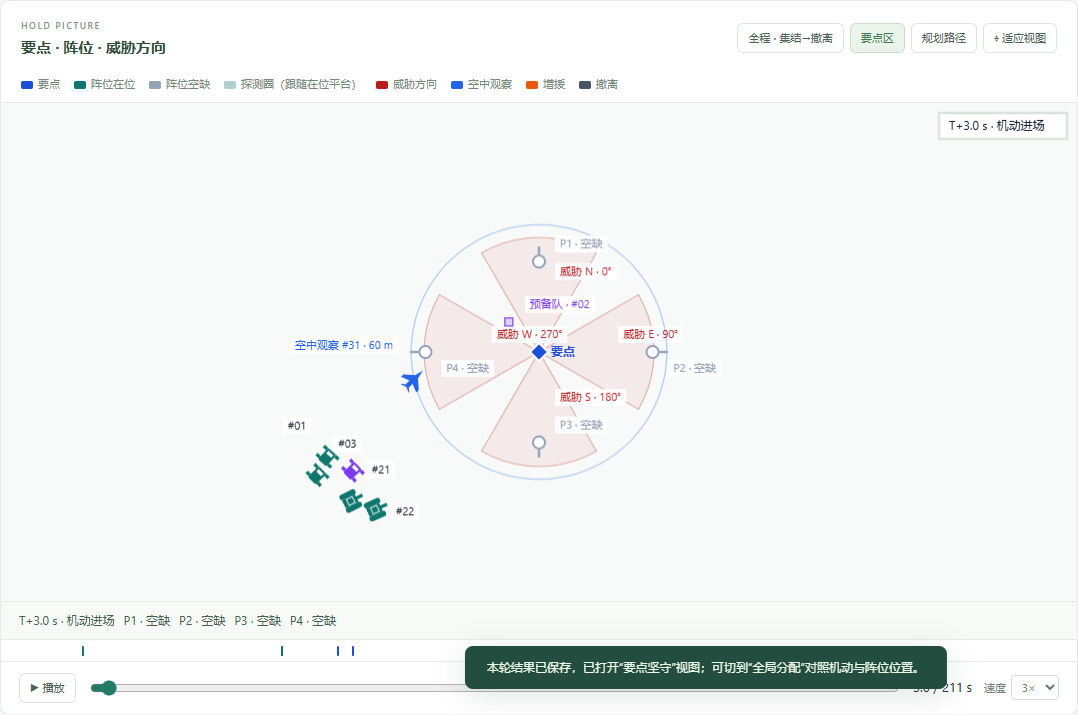
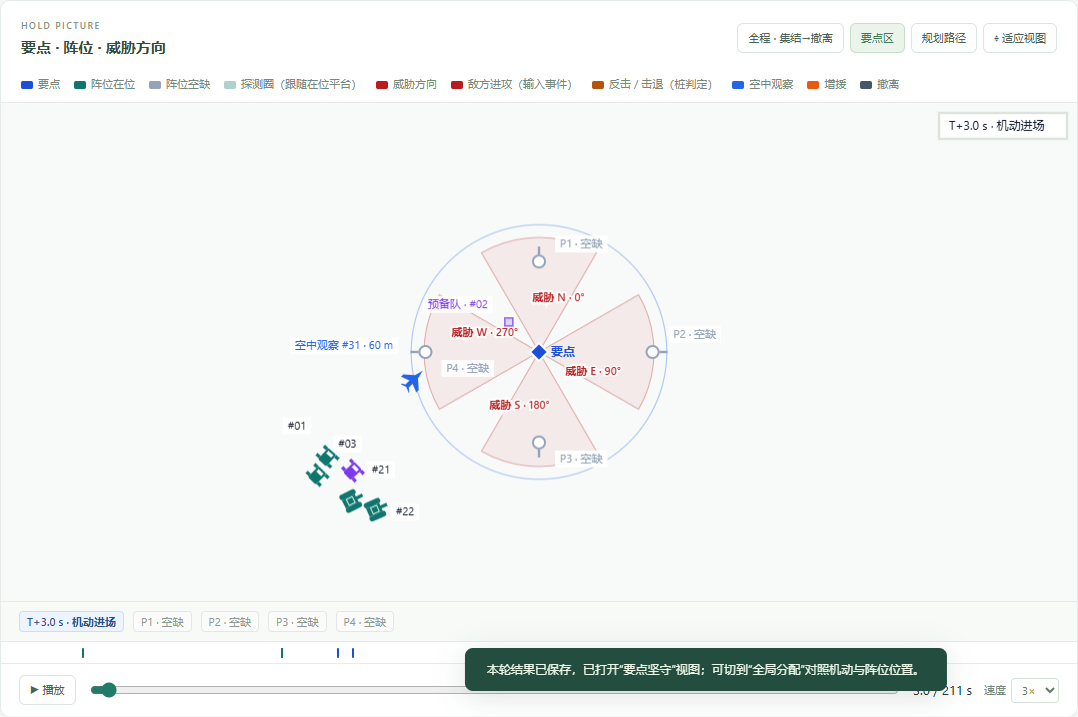
feat(hold): place threat labels inside their own sector and replay attacks on the map
- workbench/hold.js: threat labels are anchored on their own bearing inside the
  wedge (no collision-solver drift), and their boxes are registered so post
  labels avoid them; the canvas also replays what the record already says:
  attack arrow from the reported bearing toward the threatened post, contact
  ring, counter-attack pulse, and a 击退/未解除 (桩判定·未验证) caption; the
  ticker shows the same attack/verdict chips.
- trajectory_v2: expose bearing_deg/range_m in the hold replay so the front end
  can draw the reported direction instead of guessing.
- workbench/styles.css: ticker chip styles (on/out/warn/phase).
- evidence: T+56 s screenshot with the attack and 击退 caption; docs explain
  that the arrow is the input-event direction, not a sensed track, and that
  the verdict is a stub judgement.

diff --git a/planning_middle_demo/workbench/hold.js b/planning_middle_demo/workbench/hold.js
@@ -290,6 +290,8 @@
             '<span><i style="background:' + COLORS.postOff + '"></i>阵位空缺</span>' +
             '<span><i style="background:' + COLORS.post + '55"></i>探测圈（跟随在位平台）</span>' +
             '<span><i style="background:' + COLORS.threat + '"></i>威胁方向</span>' +
+            '<span><i style="background:' + COLORS.threat + '"></i>敌方进攻（输入事件）</span>' +
+            '<span><i style="background:' + COLORS.effect + '"></i>反击 / 击退（桩判定）</span>' +
             '<span><i style="background:' + COLORS.air + '"></i>空中观察</span>' +
             '<span><i style="background:' + COLORS.reinforce + '"></i>增援</span>' +
             '<span><i style="background:' + COLORS.withdraw + '"></i>撤离</span>' +
@@ -449,7 +451,23 @@
       const pid = occupantAt(p.id, C.t);
       return chip(p.id + (pid ? ' · ' + shortPid(pid) : ' · 空缺'), pid ? 'on' : 'out');
     }).join('');
-    box.innerHTML = chip('T+' + num(C.t, 1) + ' s · ' + phase, 'phase') + manned;
+    // 进攻/处置事件在状态条上也给一眼：地图上同时有箭头与脉冲。
+    const events = C.data.events || [];
+    const attack = events.filter((e) => e.kind === 'enemy_attack')
+      .filter((e) => C.t >= (e.t || 0) && C.t <= (e.t || 0) + 8).pop();
+    let fight = '';
+    if (attack) {
+      fight += chip('敌方进攻 ' + (attack.direction || '') + ' · ' +
+        (attack.attack_kind === 'assault' ? '突击' : '试探'), 'warn');
+    }
+    const recent = events.filter(
+      (e) => ['attack_repelled', 'attack_unresolved'].includes(e.kind)
+        && C.t >= (e.t || 0) && C.t <= (e.t || 0) + 6).pop();
+    if (recent) {
+      fight += chip((recent.kind === 'attack_repelled' ? '击退' : '未解除') +
+        '（桩判定·未验证）', recent.kind === 'attack_repelled' ? 'on' : 'warn');
+    }
+    box.innerHTML = chip('T+' + num(C.t, 1) + ' s · ' + phase, 'phase') + fight + manned;
   }
 
   // ---------------------------------------------------------------- 画布
@@ -534,7 +552,8 @@
     };
 
     // 威胁扇区（后端算好的顶点）：淡填充 + 细实线，不用虚线。
-    // 标注放在扇区外缘中点，不堆在要点上——两个方向的文字会在圆心挤成一团。
+    // 标签按"本扇区方位角"直接定在扇区内 0.55 半径处，**不走避让算法**：
+    // 避让会把它推到别的扇区甚至要点上，"威胁 N"标到西边就完全讲错了。
     for (const sector of (st.threat_sectors || [])) {
       const poly = (sector.polygon || []).map(P);
       if (poly.length < 3) continue;
@@ -546,17 +565,30 @@
       ctx.strokeStyle = 'rgba(185,28,28,0.32)';
       ctx.lineWidth = 1.1;
       ctx.stroke();
-      const edge = (sector.polygon || [])[Math.max(1,
-        Math.floor((sector.polygon || []).length / 2))];
-      if (edge) {
-        // 标签放在扇区内部（0.78 半径处）：边缘一圈留给阵位点，文字不压标记。
-        const q = P(edge);
-        const kp0 = P(st.key_point);
-        placeLabel('威胁 ' + (sector.id || '') + ' · ' +
-          num(sector.bearing_deg, 0) + '°',
-          kp0[0] + (q[0] - kp0[0]) * 0.55,
-          kp0[1] + (q[1] - kp0[1]) * 0.55, COLORS.threat);
-      }
+      // 标签放在本扇区内、沿方位角偏 1/3 扇宽的位置（贴着自己扇区的一侧），
+      // 并把它的矩形登记进避让表：后面的阵位标签会让开它。
+      const bearing = (Number(sector.bearing_deg) || 0) * Math.PI / 180;
+      const sectorWidth = Number(sector.width_deg) || 60;
+      const offsetRad = bearing + sectorWidth * 0.33 * Math.PI / 180;
+      const radius = (Number(st.sensor_radius_m) || 40) * 0.45;
+      const labelPoint = [
+        st.key_point[0] + Math.sin(offsetRad) * radius,
+        st.key_point[1] + Math.cos(offsetRad) * radius];
+      const q = P(labelPoint);
+      const text = '威胁 ' + (sector.id || '') + ' · ' +
+        num(sector.bearing_deg, 0) + '°';
+      ctx.font = '600 11px "Segoe UI","Microsoft YaHei"';
+      const textW = ctx.measureText(text).width + 8;
+      placed.push({ x: q[0] - textW / 2, y: q[1] - 9, w: textW, h: 18 });
+      ctx.textAlign = 'center';
+      ctx.textBaseline = 'middle';
+      ctx.lineWidth = 3;
+      ctx.strokeStyle = 'rgba(255,255,255,0.92)';
+      ctx.strokeText(text, q[0], q[1]);
+      ctx.fillStyle = COLORS.threat;
+      ctx.fillText(text, q[0], q[1]);
+      ctx.textAlign = 'left';
+      ctx.textBaseline = 'alphabetic';
     }
 
     // 撤离路线（只有开了"规划路径"才画，默认干净）
@@ -744,6 +776,109 @@
       // 预备队/支援/中继的身份已经由站位标签给出，再标一遍只会糊成一团。
       const onOwnPost = kind === 'post' && occupantAt(roles[pid].split(':')[1], t) === pid;
       if (!onOwnPost && kind === 'post') placeLabel(shortPid(pid), q[0], q[1] - 14, '#0f172a');
+    }
+
+    // 敌方进攻与"阵内反击/击退"的过程画面。
+    // 全部取值来自记录的事件（方向、目标阵位、判定结论），不模拟弹道与命中；
+    // 反击/击退一律标"桩判定"，避免把抽象效果看成战果。
+    const eventsAll = C.data.events || [];
+    const bearingOf = (ev) => {
+      if (typeof ev.bearing_deg === 'number') return ev.bearing_deg;
+      const th = (st.threats || []).find(
+        (x) => String(x.id) === String(ev.direction));
+      if (th) return Number(th.bearing_deg) || 0;
+      const n = Number(ev.direction);
+      return Number.isFinite(n) ? n : 0;
+    };
+    const activeAttack = eventsAll.filter((e) => e.kind === 'enemy_attack')
+      .filter((e) => t >= (e.t || 0) && t <= (e.t || 0) + 8)
+      .pop();
+    if (activeAttack) {
+      const et = activeAttack.t || 0;
+      const progress = Math.max(0, Math.min(1, (t - et) / 8));
+      const bearing = bearingOf(activeAttack);
+      const radius = (Number(st.sensor_radius_m) || 40) * 1.05;
+      const origin = [
+        st.key_point[0] + Math.sin(bearing * Math.PI / 180) * radius,
+        st.key_point[1] + Math.cos(bearing * Math.PI / 180) * radius];
+      const post = (st.positions || []).find((p) => p.id === activeAttack.post_id)
+        || { point: st.key_point };
+      const p1 = P(origin), p2 = P(post.point);
+      const alpha = 0.9 - 0.6 * progress;
+      ctx.save();
+      ctx.strokeStyle = 'rgba(185,28,28,' + alpha.toFixed(2) + ')';
+      ctx.fillStyle = 'rgba(185,28,28,' + alpha.toFixed(2) + ')';
+      ctx.lineWidth = 2.2;
+      ctx.beginPath();
+      ctx.moveTo(p1[0], p1[1]);
+      ctx.lineTo(p2[0], p2[1]);
+      ctx.stroke();
+      // 箭头
+      const ang = Math.atan2(p2[1] - p1[1], p2[0] - p1[0]);
+      ctx.beginPath();
+      ctx.moveTo(p2[0], p2[1]);
+      ctx.lineTo(p2[0] - 10 * Math.cos(ang - 0.35), p2[1] - 10 * Math.sin(ang - 0.35));
+      ctx.lineTo(p2[0] - 10 * Math.cos(ang + 0.35), p2[1] - 10 * Math.sin(ang + 0.35));
+      ctx.closePath();
+      ctx.fill();
+      // 目标阵位上的接触环（随时间扩散）
+      ctx.beginPath();
+      ctx.arc(p2[0], p2[1], 10 + progress * 16, 0, Math.PI * 2);
+      ctx.strokeStyle = 'rgba(185,28,28,' + (alpha * 0.8).toFixed(2) + ')';
+      ctx.lineWidth = 1.6;
+      ctx.stroke();
+      ctx.restore();
+      ctx.font = '600 11px "Segoe UI","Microsoft YaHei"';
+      ctx.textAlign = 'center';
+      ctx.lineWidth = 3;
+      ctx.strokeStyle = 'rgba(255,255,255,0.92)';
+      const head = '敌方进攻 ' + (activeAttack.direction || '') +
+        ' · ' + (activeAttack.attack_kind === 'assault' ? '突击' : '试探') +
+        (activeAttack.ratio ? ' ×' + num(activeAttack.ratio, 1) : '');
+      ctx.strokeText(head, p1[0], p1[1] - 10);
+      ctx.fillStyle = COLORS.threat;
+      ctx.fillText(head, p1[0], p1[1] - 10);
+      ctx.textAlign = 'left';
+    }
+    // 处置结果：反击脉冲 + 击退/未解除标签（都是桩判定，标 verified=false）
+    const resolutionWindow = (ev) => eventsAll.filter(
+      (e) => (e.t || 0) >= (ev.t || 0) && (e.t || 0) <= (ev.t || 0) + 12
+        && (!e.post_id || e.post_id === ev.post_id));
+    for (const attack of eventsAll.filter((e) => e.kind === 'enemy_attack')) {
+      const et = attack.t || 0;
+      if (t < et || t > et + 14) continue;
+      const window = resolutionWindow(attack);
+      const counter = window.find((e) => e.kind === 'counter_attack');
+      const repelled = window.find((e) => e.kind === 'attack_repelled');
+      const unresolved = window.find((e) => e.kind === 'attack_unresolved');
+      const post = (st.positions || []).find((p) => p.id === attack.post_id)
+        || { point: st.key_point };
+      const q = P(post.point);
+      if (counter && t >= (counter.t || 0) && t <= (counter.t || 0) + 4) {
+        const k = (t - (counter.t || 0)) / 4;
+        ctx.save();
+        for (let i = 0; i < 2; i += 1) {
+          ctx.beginPath();
+          ctx.arc(q[0], q[1], 12 + k * 30 + i * 7, 0, Math.PI * 2);
+          ctx.strokeStyle = 'rgba(180,83,9,' + (0.75 * (1 - k)).toFixed(2) + ')';
+          ctx.lineWidth = 2;
+          ctx.stroke();
+        }
+        ctx.restore();
+      }
+      const done = repelled || unresolved;
+      if (done && t >= (done.t || 0) && t <= (done.t || 0) + 6) {
+        const ok = !!repelled;
+        const text = ok ? '击退' : '未解除';
+        ctx.font = '600 11px "Segoe UI","Microsoft YaHei"';
+        ctx.textAlign = 'center';
+        ctx.lineWidth = 3;
+        ctx.strokeStyle = 'rgba(255,255,255,0.95)';
+        ctx.strokeText(text + '（桩判定·未验证）', q[0], q[1] - 26);
+        ctx.fillStyle = ok ? '#0f766e' : '#b45309';
+        ctx.fillText(text + '（桩判定·未验证）', q[0], q[1] - 26);
+        ctx.textAlign = 'left';
+      }
     }
 
     // 时钟角标

diff --git a/planning_middle_demo/workbench/styles.css b/planning_middle_demo/workbench/styles.css
@@ -238,3 +238,9 @@
 .hl-bar{position:absolute;top:2px;height:12px;background:#0f766e;border-radius:3px;opacity:.85}
 .hl-mark{position:absolute;top:0;width:0;height:0;border-left:5px solid transparent;border-right:5px solid transparent;border-top:7px solid #1d4ed8;transform:translateX(-5px)}
 .hl-mark.reinf{border-top-color:#ea580c}
+/* 要点坚守状态条的小标签（进攻/击退/在位/空缺） */
+.ck-ticker .ck-chip{font-size:11px;background:#fff;border:1px solid #dbe6d9;border-radius:4px;padding:1px 7px;color:#54705c;white-space:nowrap}
+.ck-ticker .ck-chip.on{background:#e9f6ee;border-color:#bfe2c9;color:#1f6b45}
+.ck-ticker .ck-chip.out{background:#fbfbfb;border-color:#e6e6e6;color:#8c9a90}
+.ck-ticker .ck-chip.warn{background:#fdf1e3;border-color:#ecd3ac;color:#9a5a12}
+.ck-ticker .ck-chip.phase{font-weight:600;background:#eef4ff;border-color:#cfdcf5;color:#2b4f8f}

diff --git a/planning_middle_demo/trajectory_v2.py b/planning_middle_demo/trajectory_v2.py
@@ -287,6 +287,8 @@ def _hold_replay(trace):
                 overall=event.get("overall"), verified=event.get("verified"),
                 attack_kind=event.get("attack_kind"),
                 direction=event.get("direction"),
+                bearing_deg=event.get("bearing_deg"),
+                range_m=event.get("range_m"),
                 ratio=event.get("ratio"), manned=event.get("manned"),
                 gap_s=event.get("gap_s"), reason=event.get("reason"),
                 posts=event.get("posts")))

diff --git a/docs/要点坚守任务_20261102.md b/docs/要点坚守任务_20261102.md
@@ -149,6 +149,10 @@ python -m interop.cli demo `
    `succeeded/failed/pending`，事件与结果都写 `verified=false`；被压制记
    `post_suppressed`，恢复记 `post_restored`。**不生成任何毁伤数值**，
    压制状态只影响观察与在位判定。
+   **画法**：按事件记录画红色进攻箭头（方向来自 `enemy_attack.bearing_deg`，
+   指向被威胁阵位）、阵位上的接触环、反击脉冲，以及"击退 / 未解除（桩判定·未验证）"
+   文字；状态条同步显示同一条结论。箭头是**输入事件的方向**，不是雷达/光电
+   探测到的敌人位置。
 8. **撤离/结束**：坚守时段到 → 按 `withdraw.route` 撤离（未授权撤离则原地结束）；
    控制权丧失（有效在位低于下限持续 `control_lost_after_s`）→ 记 `control_lost`，
    有撤离授权则被迫撤离，否则原地结算失败。超 `deadline_s` 记 `withdraw_timeout`。
@@ -194,9 +198,10 @@ python -m interop.cli demo `
   时间线、画布 1076×500；切“全局分配”再切回，时刻同步（±1 s 内，播放中继续走）；
   `pageerror/console.error` 为空。
 - 显示口径核对：T+3 s（尚未占位）时四个阵位都“空缺”、**画面上没有任何探测圈**；
-  T+120 s 时每个在位平台各带一个探测圈（圆心随平台走）。截图见
-  `outputs/要点坚守_20261102/工作台_T3_尚未占位无探测圈.png` 与
-  `工作台_要点坚守_120s.png`。
+  T+120 s 时每个在位平台各带一个探测圈（圆心随平台走）；T+56 s（N 方向试探）
+  时画出进攻箭头 + 阵位接触环 + 反击脉冲 + “击退（桩判定·未验证）”。
+  截图见 `outputs/要点坚守_20261102/` 下的 `工作台_T3_尚未占位无探测圈.png`、
+  `工作台_要点坚守_120s.png`、`工作台_进攻与击退_桩判定.png`。
 - 测试：`python -m unittest tests.test_hold -v` 50 项通过；
   全量 `unittest discover` 248 项通过（跳过 2）。
   其中 `test_sample_covers_all_threat_directions` 保证"每条威胁方向都有正对的
@@ -222,6 +227,9 @@ python -m interop.cli demo `
   只是这条口径的可视化（跟随在位平台），不代表传感器性能或识别能力。
 - **空中观察不含防空武器**：`air:watch` 只是对空/高处观察席（给预警和证据），
   没有对空拦截、射击授权或交战判定；"防空"在本层等于"有人在天上盯着"。
+- **进攻画面来自输入事件**：红色箭头表示 `enemy_events` 给的方向与被威胁阵位，
+  不是传感器探测到的敌人航迹；"击退/未解除"是桩判定标签，`verified=false`，
+  不能当作战果或毁伤证据，也没有命中率、射击次数等战斗细节。
 - **遮挡与地形未建模**：观察覆盖按距离计算，不做建筑遮挡折算。
 - **空中要点未接**：`roles` 目前只到 `post/reserve/support/relay`，没有高度层席位；
   1028 的空中要点（高度层）留待后续。

diff --git a/outputs/要点坚守_20261102/README.md b/outputs/要点坚守_20261102/README.md
@@ -30,6 +30,7 @@
 | --- | --- |
 | [工作台_要点坚守_120s.png](工作台_要点坚守_120s.png) | “要点坚守”页签 T+120 s：要点、4 个阵位（含朝向与在位编号）、4 条威胁扇区、**跟随在位平台的探测圈**、空中观察席盘旋航线、预备队、在位甘特、逐项判定、桩判定清单、过程时间线 |
 | [工作台_T3_尚未占位无探测圈.png](工作台_T3_尚未占位无探测圈.png) | 同一轮运行 T+3 s（还没建立控制）：四个阵位都“空缺”，**没有任何探测圈**——说明圈是跟着在位平台画的，不是预先画在阵位点上的参考圈 |
+| [工作台_进攻与击退_桩判定.png](工作台_进攻与击退_桩判定.png) | 同一轮运行 T+56 s（N 方向试探进行中）：红色进攻箭头指向 P1、阵位上红色接触环与琥珀色反击脉冲、“击退（桩判定·未验证）”文字；底部状态条同步显示“敌方进攻 N · 试探 / 击退（桩判定·未验证）” |
 | [工作台_要点坚守_整页.png](工作台_要点坚守_整页.png) | 同上整页（含 6 项 KPI 与右侧面板全貌） |
 | [工作台_全局分配覆盖层.png](工作台_全局分配覆盖层.png) | “全局分配”页签的要点覆盖层：要点菱形、阵位在位着色、威胁扇区、任务标记 |
 
